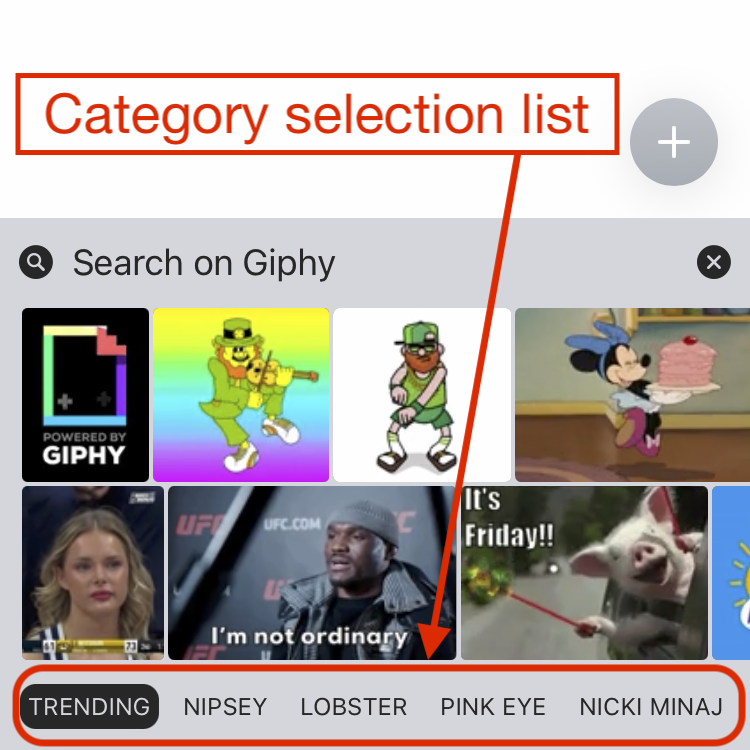
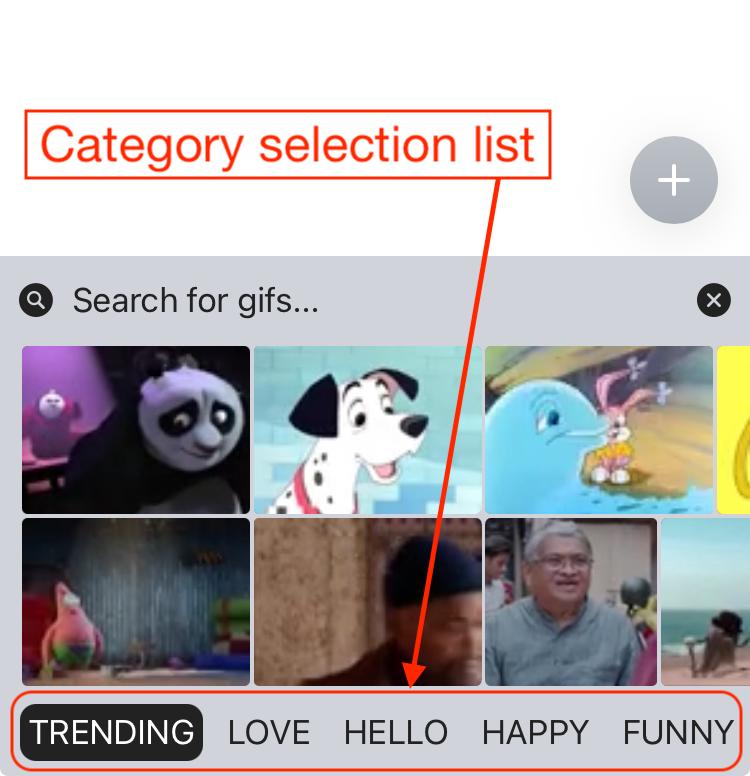
docs: [1953] change screenshots from Giphy app to MediaShare app. Mention MediaShare app in generic docs

diff --git a/Sources/BaseFleksyApp/BaseApp.swift b/Sources/BaseFleksyApp/BaseApp.swift
@@ -452,7 +452,7 @@ open class BaseApp<ContentType: BaseContent, Category: BaseCategory>: KeyboardAp
         return categoriesTask
     }
     
-    /// This method appends `contents` to `currentContents` but removing duplicates (e.g. the Giphy API sometimes returns duplicated items, with the same identifier).
+    /// This method appends `contents` to `currentContents` but removing duplicates (in case the API sometimes returns items with the same identifier).
     @MainActor
     private func appendContentsRemovingDuplicates(_ contents: [ContentType]) {
         for newItem in contents {

diff --git a/Sources/BaseFleksyApp/Utility/MosaicLayout.swift b/Sources/BaseFleksyApp/Utility/MosaicLayout.swift
@@ -1,4 +1,4 @@
-//  GiphyLayout.swift
+//  MosaicLayout.swift
 //  FleksyApps
 //
 //  Copyright © 2023 Thingthing. All rights reserved.

diff --git a/Sources/BaseFleksyApp/BaseApp.docc/Getting started.md b/Sources/BaseFleksyApp/BaseApp.docc/Getting started.md
@@ -103,7 +103,7 @@ If your FleksyApp uses the categories functionality, your ``BaseApp`` subclass c
 
 For example, in the MediaShare app, selecting the category "GOODNIGHT" is functionally the same as searching for the term "GOODNIGHT". Therefore, if the user performs a search with the query "Goodnight", the MediaShare app programmatically selects the "GOODNIGHT" category for consistency.
 
-![An image of the MediaShare app showing the search term marching the selected category.](GiphyCategorySelection.png)
+![An image of the MediaShare app showing the search term marching the selected category.](MediaShareCategorySelection.png)
 
 ### Showing a message toast
 
@@ -113,4 +113,4 @@ The ``BaseApp`` also provides a set of methods to show/hide a toast with a custo
 
 The MediaShare uses these methods to present a temporary toast message when the user selects a media item to let them know that it has been copied and ready for them to paste. 
 
-![An image of the MediaShare app showing a toast message after the user has selected a gif.](GiphyAppToast.png)
+![An image of the MediaShare app showing a toast message after the user has selected a gif.](MediaShareAppToast.png)

diff --git a/Sources/BaseFleksyApp/BaseApp.docc/BaseApp.md b/Sources/BaseFleksyApp/BaseApp.docc/BaseApp.md
@@ -8,9 +8,9 @@ Your keyboard extension built using [Fleksy Keyboard SDK](https://docs.fleksy.co
 
 The `BaseFleksyApp` allows you to very easily create your own media-selector FleksyApps for your keyboard extension. It offers all the UI and functionalities of a media selector with category filter and user search. You only need to implement the methods that provide the `BaseFleksyApp` with the content to be shown.
 
-The Giphy app is an example of a FleksyApp built on top of the `BaseFleksyApp`:
+The MediaShare app is an example of a FleksyApp built on top of the `BaseFleksyApp`:
 
-![A couple of images showing the GiphyApp in action.](GiphyApp.png)
+![A couple of images showing the MediaShareApp in action.](MediaShareApp.png)
 
 ## Topics
 
